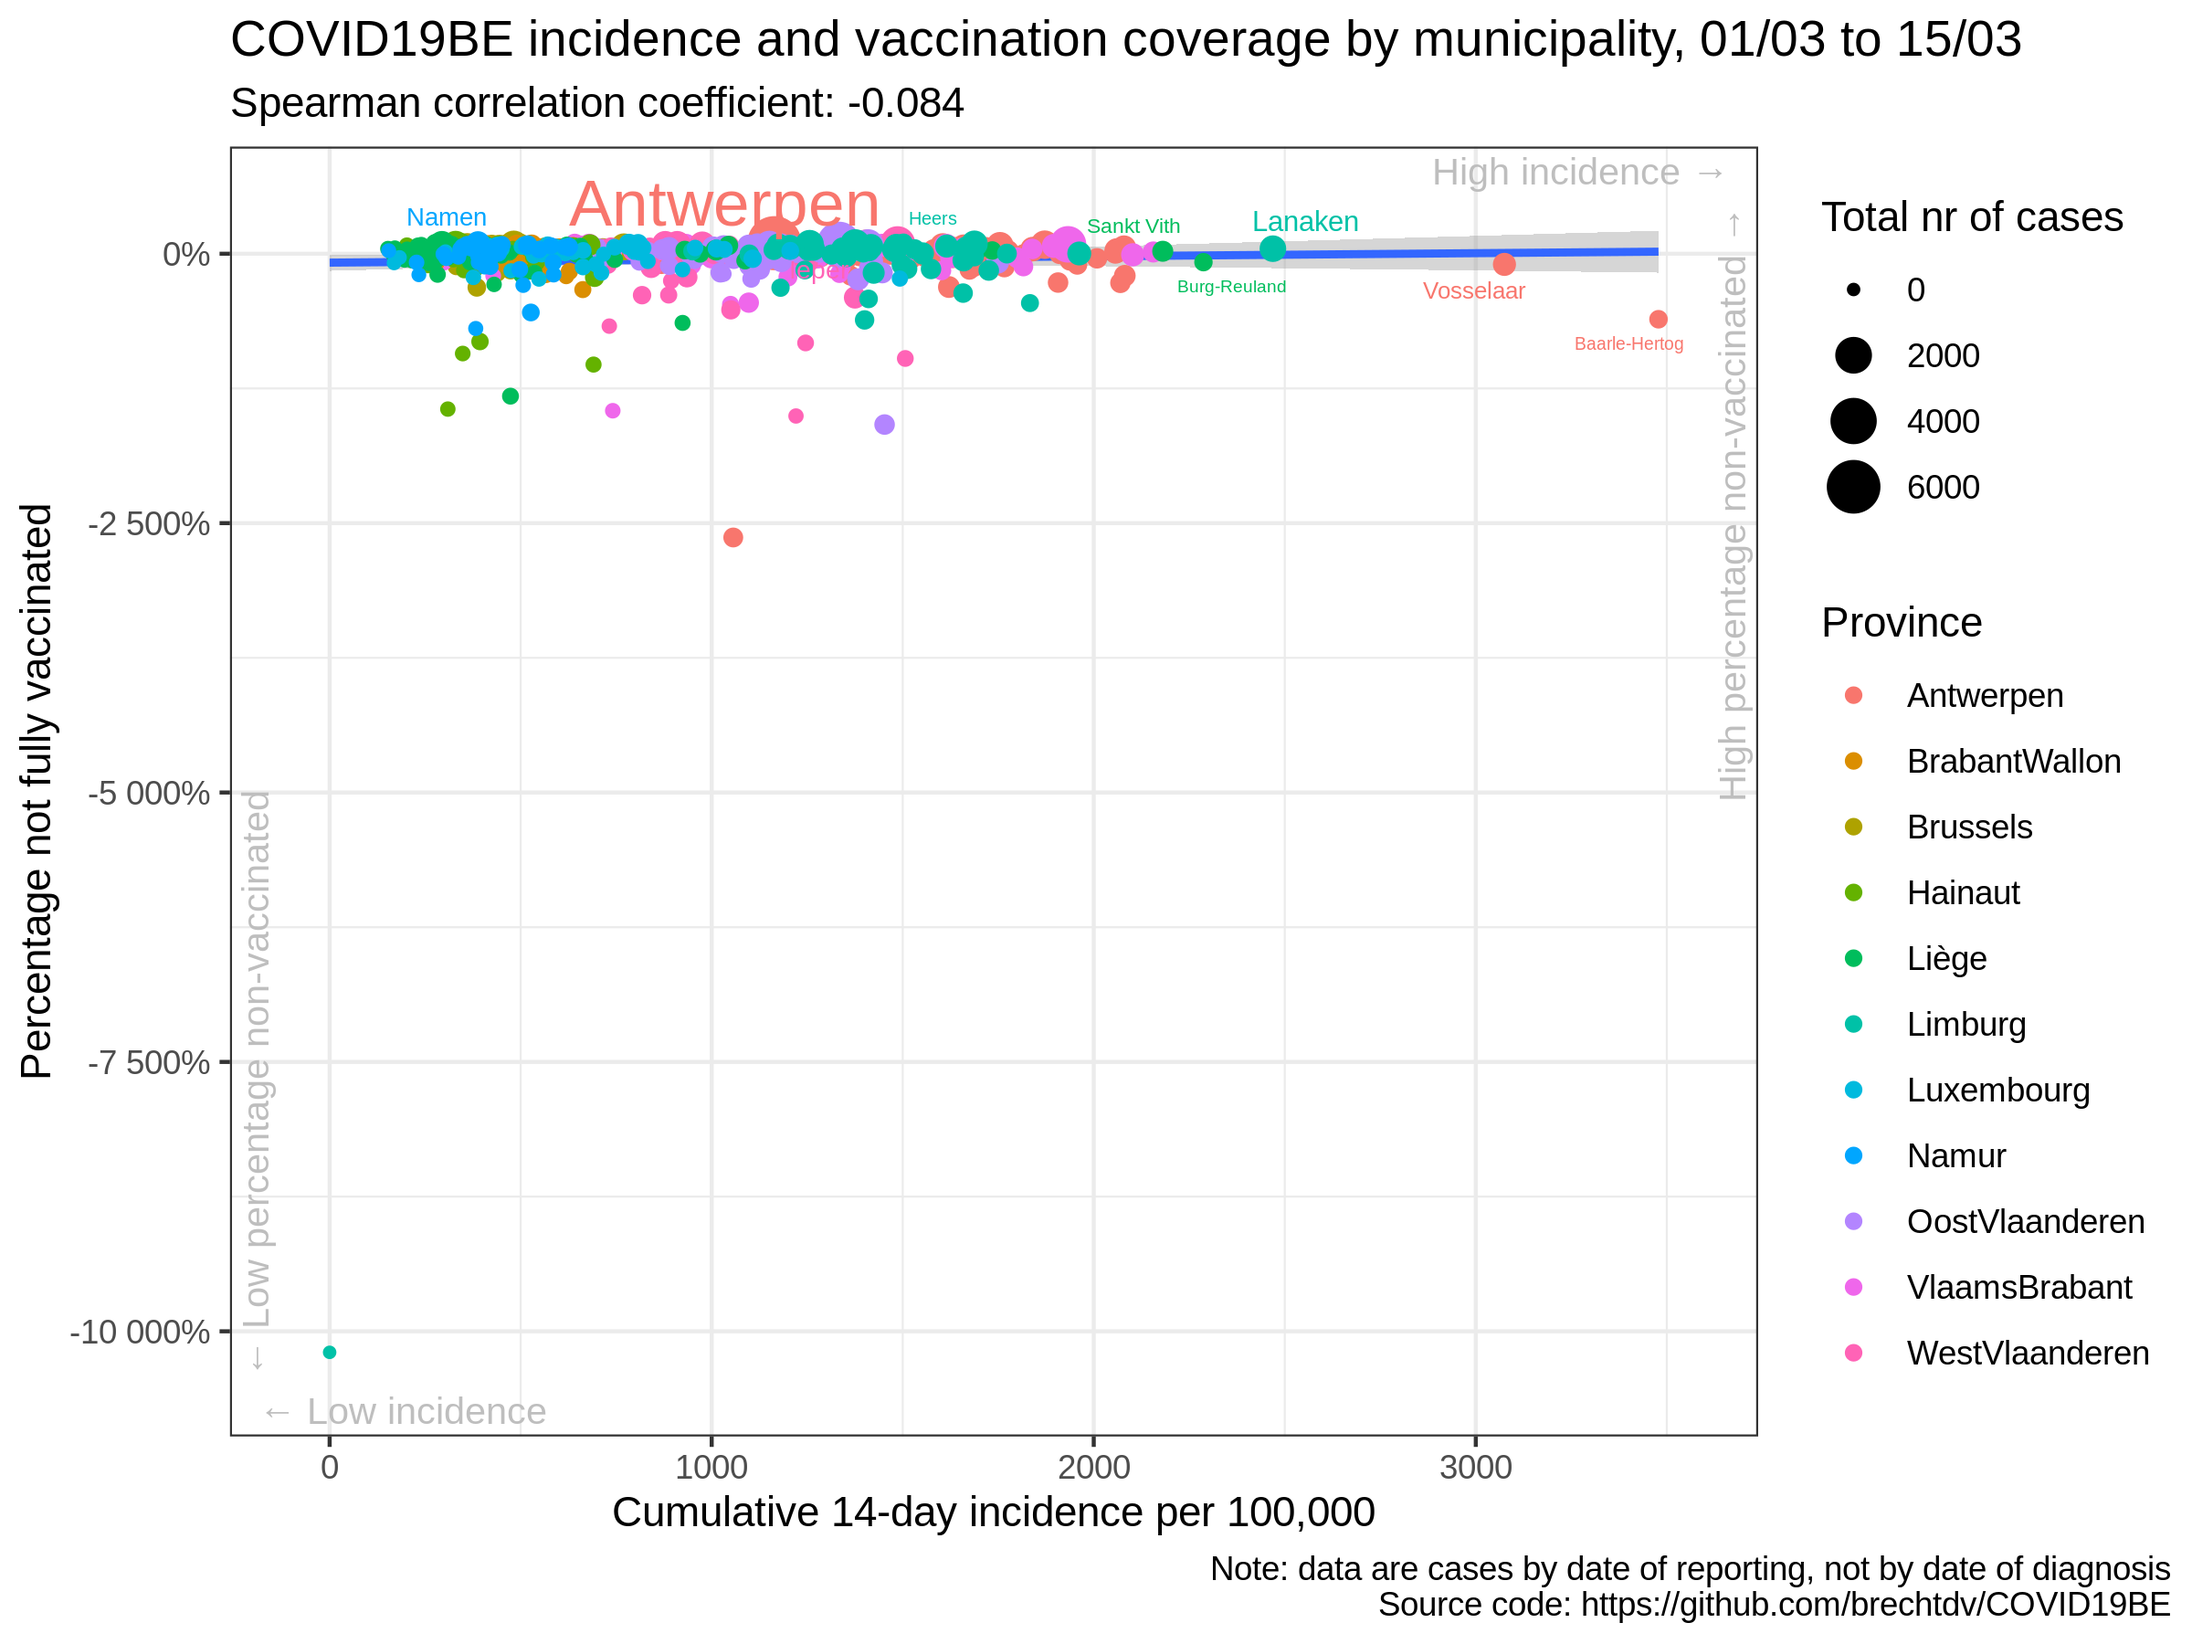
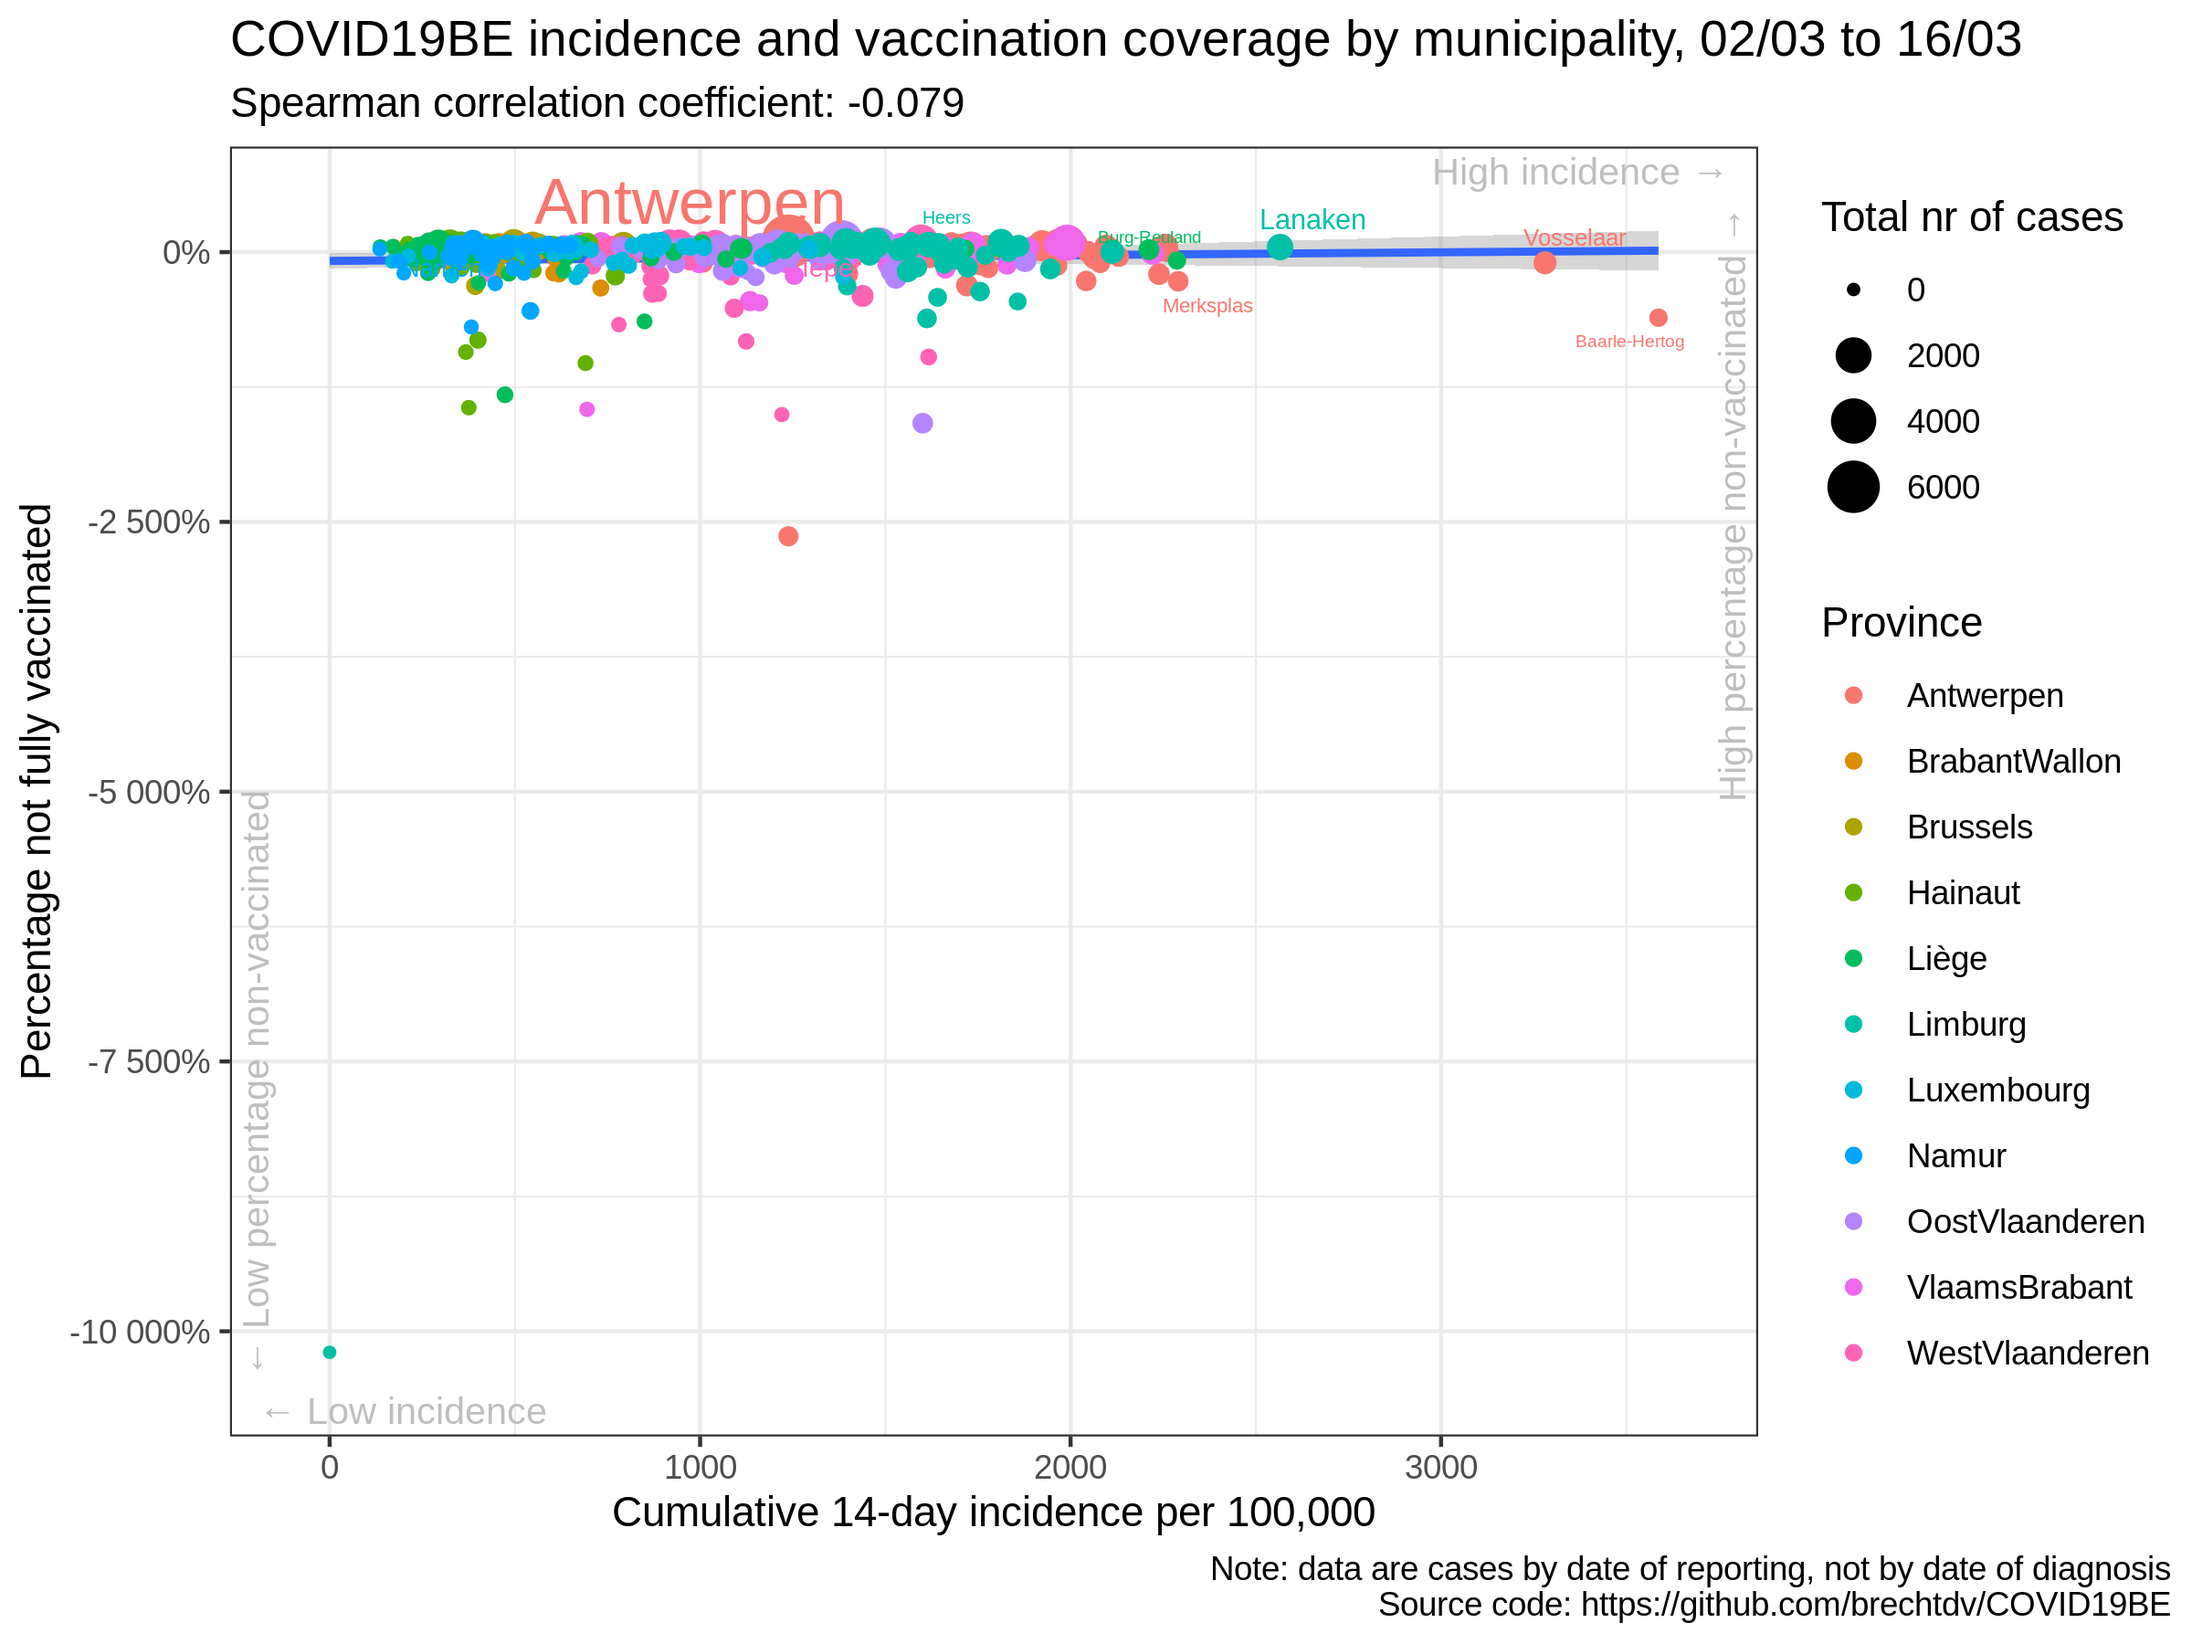
update situation

diff --git a/vaccination/README.md b/vaccination/README.md
@@ -17,35 +17,35 @@
 
 |                | estimate.rho | p.value |
 | :------------- | -----------: | ------: |
-| Antwerpen      |      \-0.091 |   0.459 |
-| BrabantWallon  |      \-0.216 |   0.279 |
-| Brussels       |        0.037 |   0.883 |
-| Hainaut        |      \-0.055 |   0.653 |
-| Liège          |      \-0.116 |   0.291 |
-| Limburg        |      \-0.062 |   0.696 |
-| Luxembourg     |      \-0.007 |   0.964 |
-| Namur          |        0.035 |   0.835 |
-| OostVlaanderen |      \-0.029 |   0.824 |
-| VlaamsBrabant  |      \-0.011 |   0.929 |
-| WestVlaanderen |        0.051 |   0.691 |
-| Belgium        |      \-0.084 |   0.044 |
+| Antwerpen      |      \-0.084 |   0.492 |
+| BrabantWallon  |      \-0.193 |   0.333 |
+| Brussels       |        0.098 |   0.689 |
+| Hainaut        |      \-0.039 |   0.750 |
+| Liège          |      \-0.068 |   0.539 |
+| Limburg        |      \-0.131 |   0.406 |
+| Luxembourg     |        0.001 |   0.997 |
+| Namur          |        0.068 |   0.689 |
+| OostVlaanderen |      \-0.031 |   0.811 |
+| VlaamsBrabant  |      \-0.009 |   0.943 |
+| WestVlaanderen |        0.072 |   0.571 |
+| Belgium        |      \-0.079 |   0.056 |
 
 ### Correlation cumulative incidence vs booster rate
 
 |                | estimate.rho | p.value |
 | :------------- | -----------: | ------: |
-| Antwerpen      |      \-0.098 |   0.422 |
-| BrabantWallon  |      \-0.200 |   0.315 |
-| Brussels       |        0.016 |   0.951 |
-| Hainaut        |      \-0.063 |   0.608 |
-| Liège          |      \-0.106 |   0.338 |
-| Limburg        |      \-0.059 |   0.711 |
-| Luxembourg     |        0.004 |   0.979 |
-| Namur          |        0.040 |   0.815 |
-| OostVlaanderen |      \-0.024 |   0.858 |
-| VlaamsBrabant  |      \-0.038 |   0.766 |
-| WestVlaanderen |        0.052 |   0.684 |
-| Belgium        |      \-0.140 |   0.001 |
+| Antwerpen      |      \-0.090 |   0.459 |
+| BrabantWallon  |      \-0.183 |   0.359 |
+| Brussels       |        0.089 |   0.716 |
+| Hainaut        |      \-0.046 |   0.705 |
+| Liège          |      \-0.059 |   0.592 |
+| Limburg        |      \-0.130 |   0.409 |
+| Luxembourg     |        0.006 |   0.970 |
+| Namur          |        0.076 |   0.652 |
+| OostVlaanderen |      \-0.025 |   0.847 |
+| VlaamsBrabant  |      \-0.036 |   0.776 |
+| WestVlaanderen |        0.073 |   0.565 |
+| Belgium        |      \-0.136 |   0.001 |
 
 ### Data source
 
